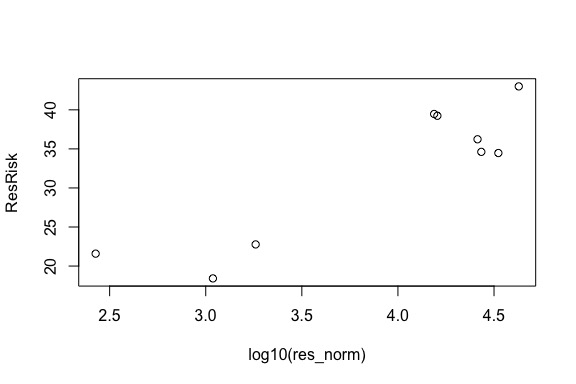
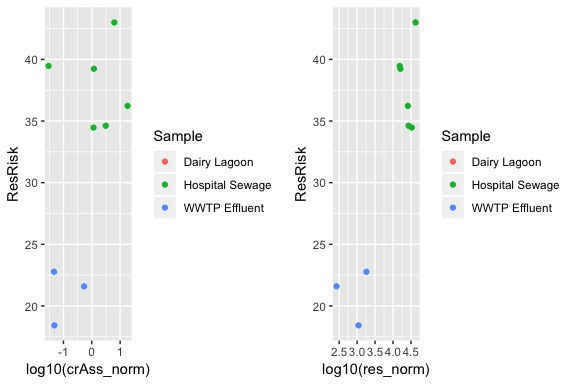
more suppl stuff

diff --git a/README.md b/README.md
@@ -16,6 +16,13 @@ crAssphage project
     -   [Figure 4 - Antibiotic resistance gene dynamics in waste water treatment plants](#figure-4---antibiotic-resistance-gene-dynamics-in-waste-water-treatment-plants)
     -   [Estimated resistance risk correlates with fecal pollution](#estimated-resistance-risk-correlates-with-fecal-pollution)
     -   [Supplementary figures](#supplementary-figures)
+        -   [Supplementary Figure 1](#supplementary-figure-1)
+        -   [Supplementary Figure 2](#supplementary-figure-2)
+        -   [Supplementary Figure 3](#supplementary-figure-3)
+        -   [Supplementary Figure 4](#supplementary-figure-4)
+        -   [Supplementary Figure 5](#supplementary-figure-5)
+        -   [Supplementary Figure 6](#supplementary-figure-6)
+        -   [Supplementary Figure 7](#supplementary-figure-7)
 -   [References](#references)
 
 **The document is still under construction...**
@@ -119,12 +126,14 @@ The results from mapping against crAssphage and the gene annotations were import
 Load in the data and libraries needed in the analyses
 -----------------------------------------------------
 
-Both `tidyverse` and `vegan` packageds are needed for the analyses (they can be installed with `install.packages()`).
+Packages `tidyverse`, `vegan` and `gridExtra` are needed for the analyses
+(they can be installed with `install.packages` function).
 In here the results are read to R and the colors used in the figures are defined.
 
 ``` r
 library(tidyverse)
 library(vegan)
+library(gridExtra)
 
 cols <- c("#E69F00", "#56B4E9", "#009E73", "#F0E442", "#0072B2", "#D55E00", "#CC79A7")
 
@@ -400,7 +409,10 @@ Estimated resistance risk correlates with fecal pollution
 ---------------------------------------------------------
 
 The resistance risk values were taken from the original publication (see main article) and ARG and crAssphage abundances were measured in this publication as described earlier.
-The results show that due to the one outlier (hospital effluent) with higher ARG abundance than would be estimated from the crAssphage abundance the regression is not significant. The regression model between the ARG abundance and resistance risk is significant revealing the main driver behind the resistasnce risk calculations. With the resistance risk approach the hospital effluent, a possible hotspot for ARGs, would not have been spotted. For the figures, see under [Supplementary figures.](#supplementary-figures)
+
+The results show that due to the one outlier (hospital effluent) with higher ARG abundance than would be estimated from the crAssphage abundance the regression is not significant.
+
+The regression model between the ARG abundance and resistance risk is significant revealing the main driver behind the resistasnce risk calculations. With the resistance risk approach the hospital effluent, a possible hotspot for ARGs, would not have been spotted. For the figures, see under [Supplementary figures.](#supplementary-figures)
 
 ``` r
 risk_mod_crAss <- lm(ResRisk~log10(crAss_norm), data=res_risk)
@@ -455,7 +467,97 @@ summary(risk_mod_res)
 Supplementary figures
 ---------------------
 
-some text...
+The supplementary figures are not described in detail. Only the data and codes are provided below.
+
+### Supplementary Figure 1
+
+``` r
+#res_categories <- read.table()
+#ggplot()
+```
+
+### Supplementary Figure 2
+
+``` r
+p1 <- ggplot(crass_impact, aes(x=rel_crAss, y=rel_res, color=country)) + 
+  geom_smooth(method="lm") + 
+  geom_point(aes(shape=crAss_detection), size=5) + 
+  scale_x_log10() + 
+  scale_y_log10() + 
+  theme_classic() +
+  labs(y = "Normalized ARG abundance", x="Normalized crAssphage abundance", 
+       color="Study", shape="crAssphage detection") 
+
+p2 <- ggplot(crass_impact, aes(x=rel_crAss, y=rel_rich, color=country)) + 
+  geom_smooth(method="lm") + 
+  geom_point(aes(shape=crAss_detection), size=5) + 
+  scale_x_log10() + 
+  scale_y_log10() + 
+  theme_classic() +
+  labs(y = "Normalized ARG richness", x="Normalized crAssphage abundance", 
+       color="Study", shape="crAssphage detection") 
+
+p3 <- ggplot(crass_impact, aes(x=rel_crAss, y=rel_mge, color=country)) + 
+  geom_smooth(method="lm") + 
+  geom_point(aes(shape=crAss_detection), size=5) + 
+  scale_x_log10() + 
+  scale_y_log10() + 
+  theme_classic() +
+  labs(y = "Normalized MGE abundance", x="Normalized crAssphage abundance", 
+       color="Study", shape="crAssphage detection") 
+
+p4 <- ggplot(crass_impact, aes(x=rel_crAss, y=rel_int, color=country)) + 
+  geom_smooth(method="lm") + 
+  geom_point(aes(shape=crAss_detection), size=5) + 
+  scale_x_log10() + 
+  scale_y_log10() + 
+  theme_classic() +
+  labs(y = "Normalized ARG abundance", x="Normalized crAssphage abundance", 
+       color="Study", shape="crAssphage detection")
+
+grid.arrange(p1, p2, p3, p4, ncol=2)
+```
+
+![](README_files/figure-markdown_github/unnamed-chunk-18-1.jpeg)
+
+### Supplementary Figure 3
+
+The most abundant ARGs were removed due to possible bias introduced by the whole genome amplification used in the study.
+
+| Gene     | ResFinder accessions                                     |
+|----------|----------------------------------------------------------|
+| *sul2*   | sul2\_1\_AF542061, sul2\_2\_GQ421466, sul2\_12\_AF497970 |
+| *strA*   | strA\_1\_M96392,                                         |
+| *strB*   | strB\_1\_M96392,                                         |
+| *qnrD*   | QnrD\_1\_FJ228229,                                       |
+| *msr(E)* | msr(E)\_4\_EU294228                                      |
+| *qnrVC*  | QnrVC4\_1\_GQ891757                                      |
+
+``` r
+crass_reduced <- read.table()
+ggplot(crass_reduced, aes(x=rel_crAss, y=rel_res, color=country)) + 
+  geom_smooth(method="lm") + 
+  geom_point(aes(shape=crAss_detection), size=5) + 
+  scale_x_log10() + 
+  scale_y_log10() + 
+  theme_classic() +
+  labs(y = "Normalized ARG abundance", x="Normalized crAssphage abundance", 
+       color="Study", shape="crAssphage detection") + scale_colour_manual(values=cols)
+```
+
+### Supplementary Figure 4
+
+``` r
+MG_RAST_NocrAss <- MG_RAST[is.na(MG_RAST$crAss),]
+MG_RAST_NocrAss <- subset(MG_RAST_NocrAss, feature %in% 
+                            names(table(MG_RAST_NocrAss$feature)[table(MG_RAST_NocrAss$feature)>2]))
+ggplot(MG_RAST_NocrAss, aes(x=feature, y=rel_res)) + geom_boxplot() + theme_classic() + theme(axis.text.x=element_text(angle=45, hjust=1, size=10)) +
+      labs(y = "Normalized ARG abundance", x="")
+```
+
+![](README_files/figure-markdown_github/unnamed-chunk-20-1.jpeg)
+
+### Supplementary Figure 5
 
 ``` r
 ggplot(pos_crass, aes(x=predicted, y=res, color=pos_crass$revised_source)) + 
@@ -463,13 +565,44 @@ ggplot(pos_crass, aes(x=predicted, y=res, color=pos_crass$revised_source)) +
   labs(x="Predicted ARG abundance", y="Measured ARG abundance", color="Revised source")
 ```
 
-![](README_files/figure-markdown_github/unnamed-chunk-17-1.jpeg)
+![](README_files/figure-markdown_github/unnamed-chunk-21-1.jpeg)
+
+### Supplementary Figure 6
 
 ``` r
-plot(ResRisk~log10(res_norm), data=res_risk)
+glimpse(crass_wwtp)
 ```
 
-![](README_files/figure-markdown_github/unnamed-chunk-17-2.jpeg)
+    ## Observations: 99
+    ## Variables: 4
+    ## $ rel_crAss    <dbl> 0.32062930, 0.27575551, 0.25977641, 0.04511988, 0...
+    ## $ rel_res      <dbl> 860.4131, 997.0335, 1099.0622, 145.0217, 148.2426...
+    ## $ country      <fct> Sweden 2, Sweden 2, Sweden 2, Sweden 2, Sweden 2,...
+    ## $ country_wwtp <fct> SWE: Uppsala, SWE: Uppsala, SWE: Uppsala, SWE: Up...
+
+``` r
+ggplot(crass_wwtp, aes(rel_crAss, rel_res, shape=country_wwtp)) + 
+  geom_smooth(method="lm") + 
+  geom_point(size=5) + 
+  facet_grid(.~country) +
+  scale_x_log10() + 
+  scale_y_log10() + 
+  labs(y = "Normalized ARG abundance (log10)", x="Normalized crAssphage abundance (log10)") +
+  theme_classic() + 
+  guides(shape=guide_legend(title="WWTP"), color=guide_legend(title="Sample"))
+```
+
+![](README_files/figure-markdown_github/unnamed-chunk-22-1.jpeg)
+
+### Supplementary Figure 7
+
+``` r
+p1 <- ggplot(res_risk,aes(y=ResRisk,x=log10(crAss_norm),color=Sample )) + geom_point() + theme_classic() 
+p2 <- ggplot(res_risk,aes(y=ResRisk,x=log10(res_norm),color=Sample )) + geom_point() + theme_classic() 
+grid.arrange(p1,p2, ncol=2)
+```
+
+![](README_files/figure-markdown_github/unnamed-chunk-23-1.jpeg)
 
 References
 ==========
